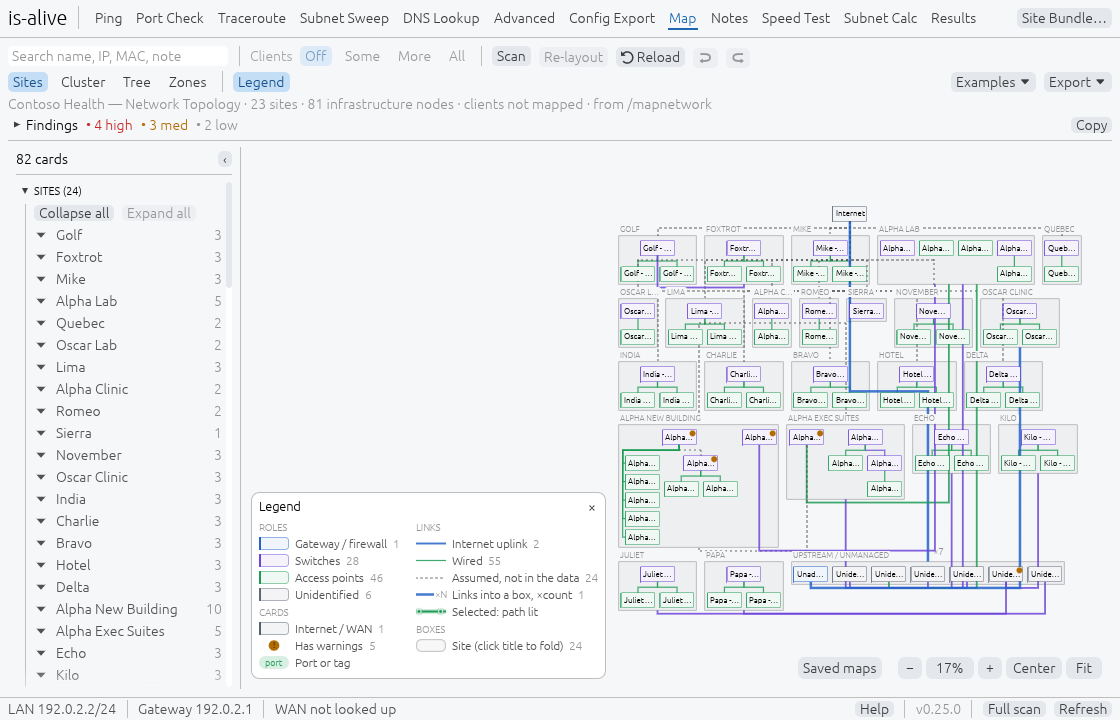
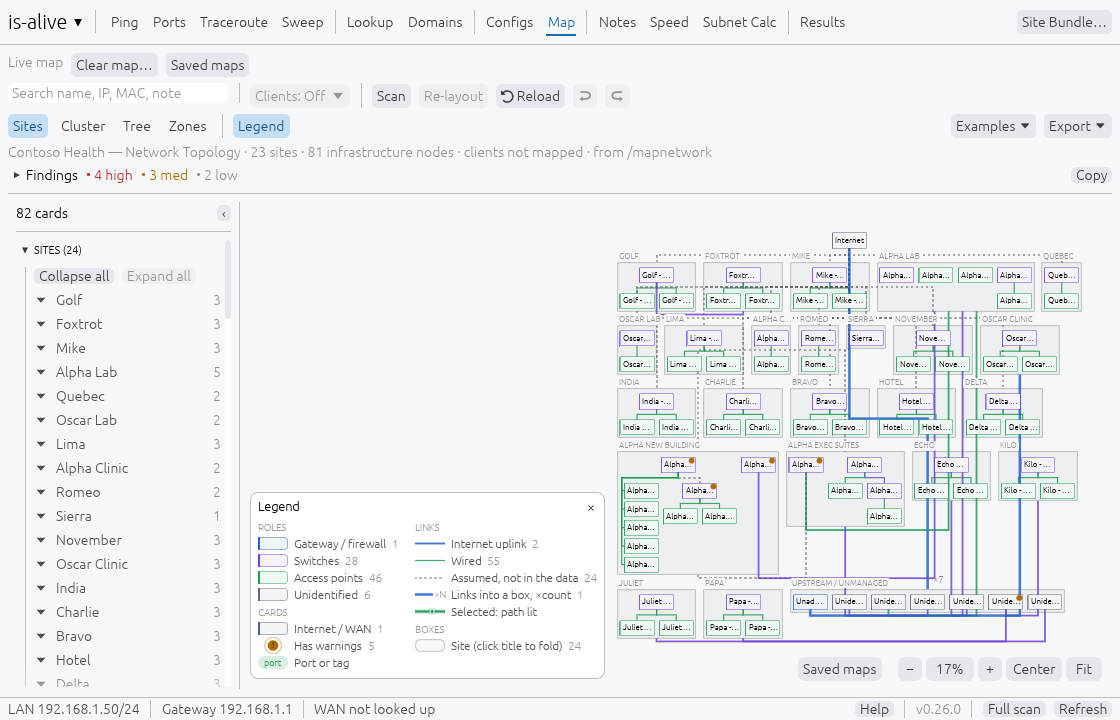
Release 0.26.0: screenshots, Settings scrolls, new tab names in the docs
- Version 0.26.0 (a full release).
- Settings scrolls instead of being cut off: with the larger spacing it
  no longer fit the default 1120×720 window, and Keyboard and mouse and
  the settings folder couldn't be reached. egui's popup starts at its
  default area size (400 high), so the height is asked for.
- Manual screenshots for 0.26.0: the 15 that need no internet, from
  scripts/manual-shots.sh --here in a network namespace on the made-up
  LAN (192.168.1.50/24, gateway 192.168.1.1), so the footers match the
  others. ping, dns-lookup, advanced, speed-test and results are left as
  they were (no ping or DNS in a cloud sandbox).
- README and FOLLOW-ALONG: the new tab labels (the attendee steps said
  "Click the DNS Lookup / Advanced tab").

Claude-Session: https://claude.ai/code/session_01JCRLU3442vSaKhqRCrUbkw

diff --git a/src/chrome.rs b/src/chrome.rs
@@ -29,7 +29,19 @@ impl App {
                 }
                 egui::Popup::menu(&name)
                     .close_behavior(egui::PopupCloseBehavior::CloseOnClickOutside)
-                    .show(|ui| self.settings_ui(ui));
+                    .show(|ui| {
+                        // A menu stops at the window's edge: scroll rather
+                        // than cut off Keyboard and mouse and the folder at
+                        // the default window size. The popup starts at
+                        // egui's default area size (400 high), so the height
+                        // is asked for: down to the footer, or the content's
+                        // own where that's less.
+                        let room = (ui.ctx().content_rect().height() - 90.0).max(200.0);
+                        egui::ScrollArea::vertical()
+                            .max_height(room)
+                            .min_scrolled_height(room)
+                            .show(ui, |ui| self.settings_ui(ui));
+                    });
                 ui.separator();
                 // The selected tab is marked by a sliding underline rather
                 // than a filled box; running jobs get a pulsing dot that

diff --git a/FOLLOW-ALONG.md b/FOLLOW-ALONG.md
@@ -20,9 +20,9 @@ This guide is for anyone attending the is-alive demo. You don't need any technic
 
 > **Nothing opens, or the window stays blank?** See [If the window doesn't open](README.md#if-the-window-doesnt-open): what to try, and where the app writes down why.
 
-You'll see a row of tabs across the top: **Ping**, **Port Check**, **Traceroute**, **Subnet Sweep**, **DNS Lookup**, **Advanced**, **Config Export**, **Map**, **Notes**, **Speed Test**, **Subnet Calc** and **Results**, with **Site Bundle…** at the right. The bar at the bottom shows your computer's local address, your router (gateway) and your public internet address, with **Help**, the version, **Full scan** and **Refresh** on the right. **Help** (or the **F1** key) opens the is-alive wiki, a page per tab, in your browser. Clicking **is-alive** at the top left opens Settings (theme and the like).
+You'll see a row of tabs across the top: **Ping**, **Ports**, **Traceroute**, **Sweep**, **Lookup**, **Domains**, **Configs**, **Map**, **Notes**, **Speed**, **Subnet Calc** and **Results**, with **Site Bundle…** at the right. The bar at the bottom shows your computer's local address, your router (gateway) and your public internet address, with **Help**, the version, **Full scan** and **Refresh** on the right. **Help** (or the **F1** key) opens the is-alive wiki, a page per tab, in your browser. Clicking **is-alive ▾** at the top left opens Settings (theme and the like).
 
-> **Please watch, don't run, the Port Check and Subnet Sweep parts.** They look at other devices on the network, and the company's security software may flag that as suspicious. Everything else in this guide is safe to run yourself.
+> **Please watch, don't run, the Ports and Sweep parts.** They look at other devices on the network, and the company's security software may flag that as suspicious. Everything else in this guide is safe to run yourself.
 
 ---
 
@@ -36,7 +36,7 @@ The presenter clicks **Full scan** at the bottom right. Several checks start at 
 | **Ping** | Your router answers, and how fast (in milliseconds; lower is better) |
 | **Port Check** | Which services the router offers (for example, web pages on 443) |
 | **Traceroute** | Every stop your traffic makes on the way to the internet |
-| **DNS Lookup** | Website names are being turned into addresses correctly |
+| **Lookup** | Website names are being turned into addresses correctly |
 | **Subnet Sweep** | Every device currently on the local network |
 
 **Takeaway:** in about 15 seconds you know whether the problem is your computer, your router, or the internet beyond it.
@@ -54,11 +54,11 @@ The presenter clicks **Full scan** at the bottom right. Several checks start at 
 
 ---
 
-## 4. Try it yourself: DNS Lookup
+## 4. Try it yourself: DNS (the Lookup tab)
 
 DNS is the internet's phone book: it turns names like `gmail.com` into the numeric addresses computers use.
 
-1. Click the **DNS Lookup** tab.
+1. Click the **Lookup** tab. It opens on **DNS records**.
 2. Type `gmail.com` in **Name or IP**.
 3. Set **Type** to **MX** and **Resolver** to **Cloudflare 1.1.1.1**, then press **Enter**.
 4. You'll see five mail servers. MX records tell the world where to deliver email for a domain.
@@ -67,11 +67,11 @@ DNS is the internet's phone book: it turns names like `gmail.com` into the numer
 
 ---
 
-## 5. Try it yourself: email health check (Advanced)
+## 5. Try it yourself: email health check (Domains)
 
 This tab checks a company's email security settings, the same ones that decide whether its emails land in the inbox or the spam folder.
 
-1. Click the **Advanced** tab.
+1. Click the **Domains** tab.
 2. Type `gmail.com` in **Domain** and press **Enter**.
 3. About 15 checks appear within a second or two. Each has a label:
 

diff --git a/README.md b/README.md
@@ -9,15 +9,15 @@ A native network tester for site visits, written in Rust. One portable `.exe` on
 | Tab | What it does |
 |---|---|
 | [Ping](https://github.com/hammerknife404/is-alive/wiki/Ping) | ICMP or TCP ping with a live latency graph, loss and min/avg/max |
-| [Port Check](https://github.com/hammerknife404/is-alive/wiki/Port-Check) | TCP port scan: lists, ranges and presets, with service names |
+| [Ports](https://github.com/hammerknife404/is-alive/wiki/Port-Check) | TCP port scan: lists, ranges and presets, with service names |
 | [Traceroute](https://github.com/hammerknife404/is-alive/wiki/Traceroute) | Every router to a host, three probes per hop |
-| [Subnet Sweep](https://github.com/hammerknife404/is-alive/wiki/Subnet-Sweep) | Live hosts on one or more subnets and ranges at once, with names, MACs, vendors and an Inventory for /mapnetwork |
-| [DNS Lookup](https://github.com/hammerknife404/is-alive/wiki/DNS-Lookup) | Any record type from any resolver, or every resolver compared |
-| [Advanced](https://github.com/hammerknife404/is-alive/wiki/Advanced) | Mail and domain health: MX, SPF, DMARC, DKIM, SMTP, blacklists, DNSSEC and more |
-| [Config Export](https://github.com/hammerknife404/is-alive/wiki/Config-Export) | UniFi, SonicWall and Meraki configs to sanitized JSON, offline; /mapnetwork maps back in |
+| [Sweep](https://github.com/hammerknife404/is-alive/wiki/Subnet-Sweep) | Live hosts on one or more subnets and ranges at once, with names, MACs, vendors and an Inventory for /mapnetwork |
+| [Lookup](https://github.com/hammerknife404/is-alive/wiki/DNS-Lookup) | DNS: any record type from any resolver, or every resolver compared; WHOIS registration |
+| [Domains](https://github.com/hammerknife404/is-alive/wiki/Advanced) | Mail and domain health: MX, SPF, DMARC, DKIM, SMTP, blacklists, DNSSEC and more |
+| [Configs](https://github.com/hammerknife404/is-alive/wiki/Config-Export) | UniFi, SonicWall and Meraki configs to sanitized JSON, offline; /mapnetwork maps back in |
 | [Map](https://github.com/hammerknife404/is-alive/wiki/Map) | The network drawn from the sweep, configs or a /mapnetwork map, with findings |
-| [Notes](https://github.com/hammerknife404/is-alive/wiki/Notes) | Markdown notes for the visit, with redaction |
-| [Speed Test](https://github.com/hammerknife404/is-alive/wiki/Speed-Test) | Throughput, latency, jitter and loss under load, bufferbloat grade and VoIP MOS |
+| [Notes](https://github.com/hammerknife404/is-alive/wiki/Notes) | Markdown notes for the visit, with photos and redaction |
+| [Speed](https://github.com/hammerknife404/is-alive/wiki/Speed-Test) | Throughput, latency, jitter and loss under load, bufferbloat grade and VoIP MOS |
 | [Subnet Calc](https://github.com/hammerknife404/is-alive/wiki/Subnet-Calc) | IPv4 and IPv6 subnet calculator: details, address check, split, ranges to CIDR |
 | [Results](https://github.com/hammerknife404/is-alive/wiki/Results) | Every finished run, with Filter and Export to CSV, JSON, Markdown or HTML |
 

diff --git a/docs/manual/MANUAL.md b/docs/manual/MANUAL.md
@@ -1027,9 +1027,9 @@ Copy, Save and Export always follow the filter, so filter to one customer's host
 
 ## 16. Settings and themes
 
-![Settings, opened from the app's name: themes with their map colours, the Miami backdrop, Network options, the Map note, Keyboard and mouse, and where settings are kept](img/settings.png)
+![Settings, opened from the app's name: themes with their map colours, Emoji, Animate, the Miami backdrop and the Network options; the Map note, Keyboard and mouse and the settings folder are further down](img/settings.png)
 
-Click **is-alive ▾** at the top left to open Settings. Changes apply at once and are remembered.
+Click **is-alive ▾** at the top left to open Settings. Changes apply at once and are remembered. In a small window, scroll it for the rest.
 
 ### Theme
 
